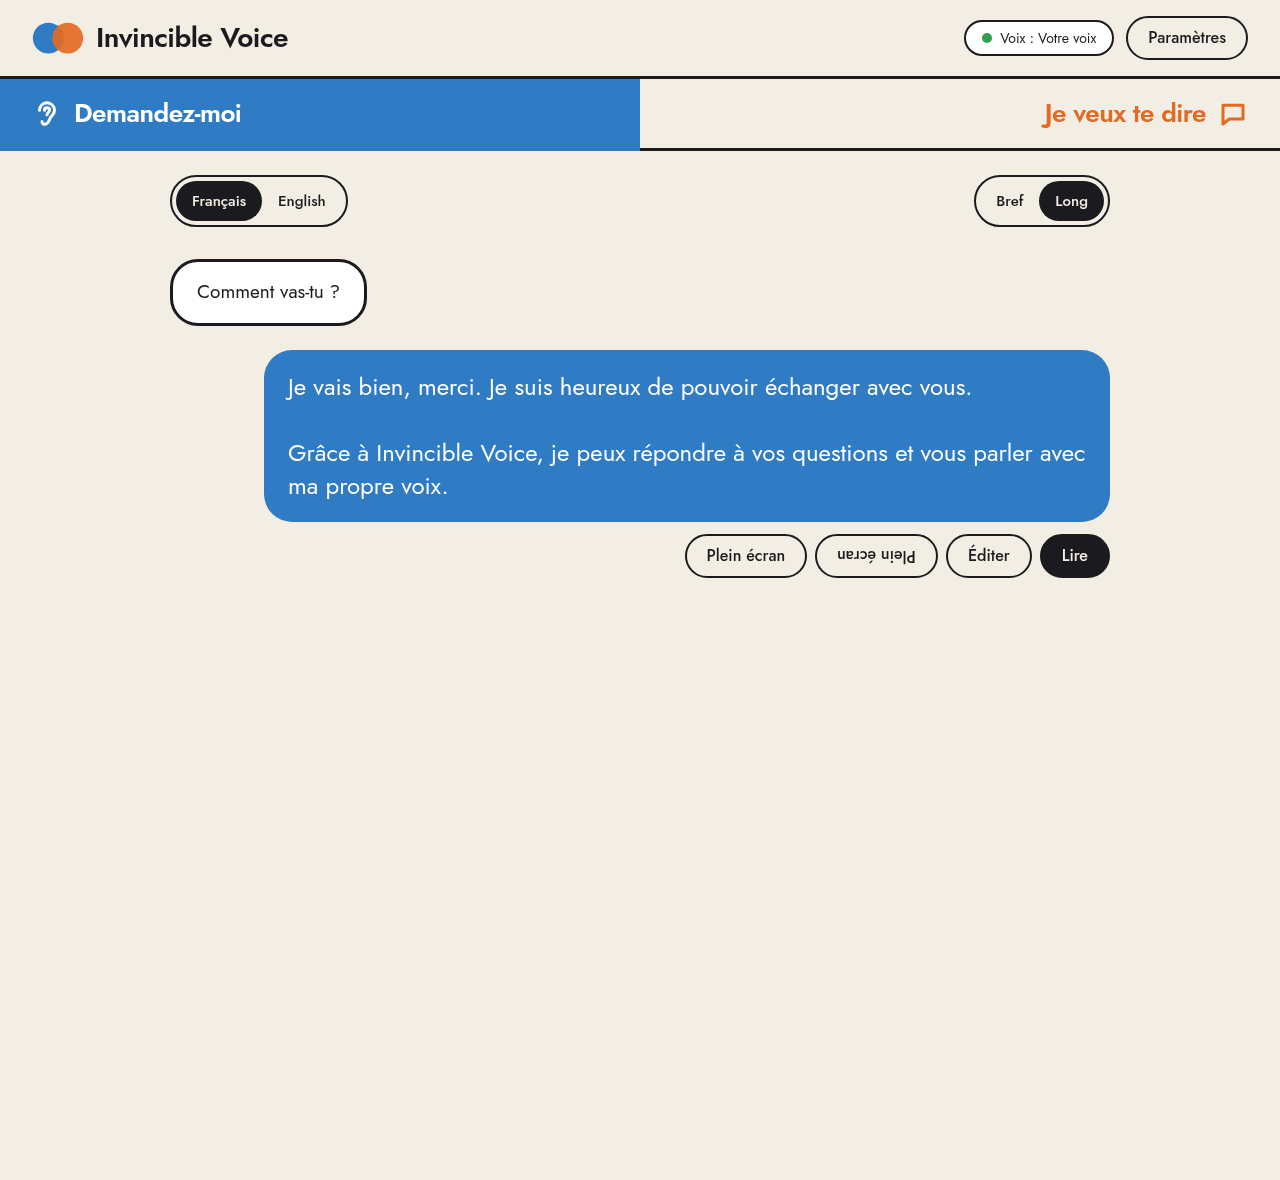
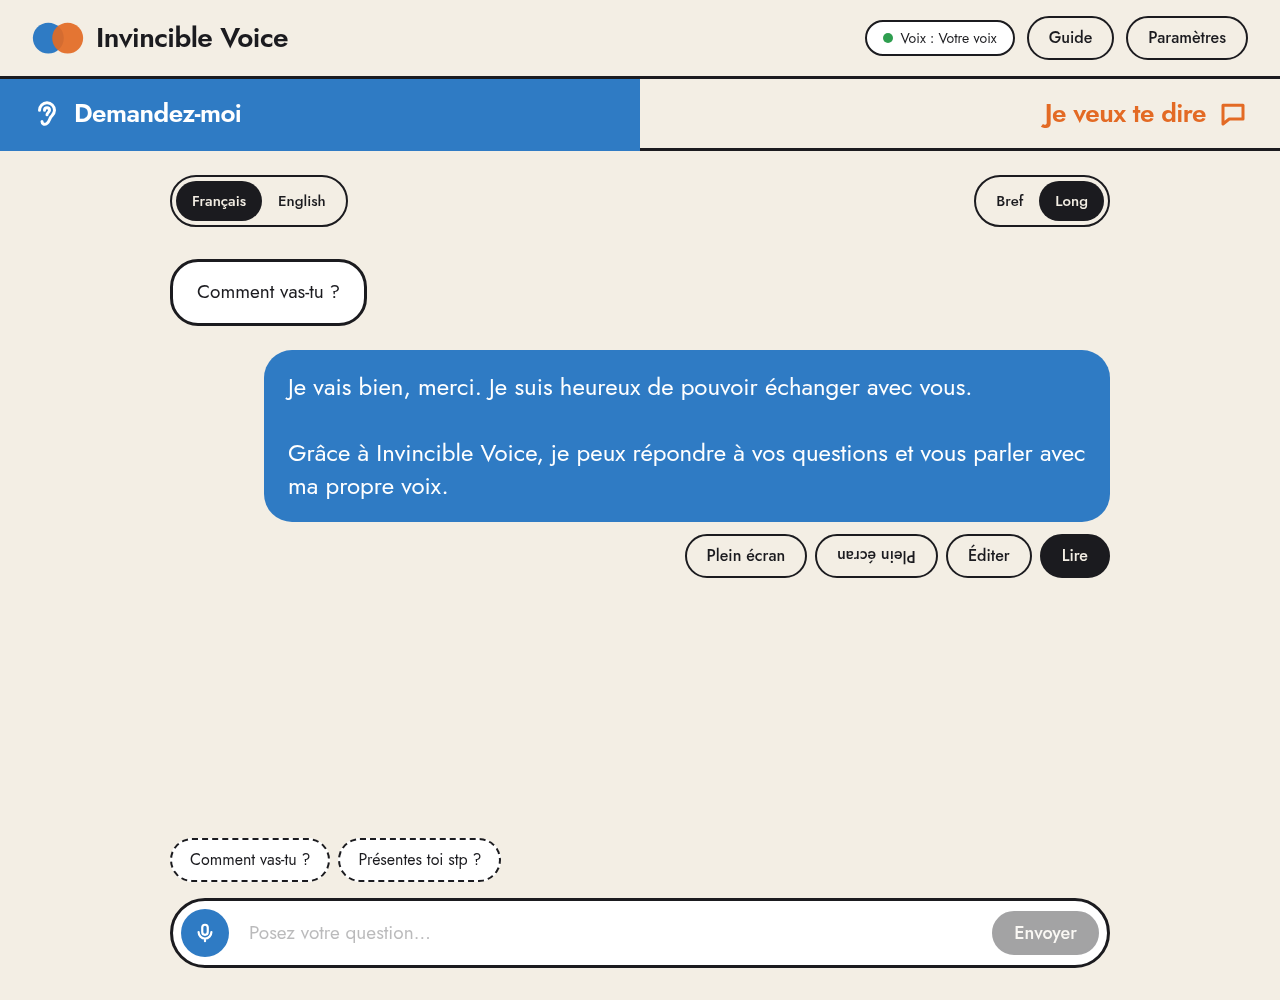
Changes

Changed region(s): [[0.0, 0.0, 1.0, 0.589], [0.125, 0.837, 0.875, 0.992]]

diff --git a/src/routeTree.gen.ts b/src/routeTree.gen.ts
@@ -12,6 +12,7 @@ import { Route as rootRouteImport } from './routes/__root'
 import { Route as IndexRouteImport } from './routes/index'
 import { Route as AskRouteImport } from './routes/ask'
 import { Route as DireRouteImport } from './routes/dire'
+import { Route as GuideRouteImport } from './routes/guide'
 import { Route as ParametresRouteImport } from './routes/parametres'
 import { Route as ApiChatRouteImport } from './routes/api/chat'
 import { Route as ApiExpandRouteImport } from './routes/api/expand'
@@ -32,6 +33,11 @@ const AskRoute = AskRouteImport.update({
 const DireRoute = DireRouteImport.update({
   id: '/dire',
   path: '/dire',
+  getParentRoute: () => rootRouteImport,
+} as any)
+const GuideRoute = GuideRouteImport.update({
+  id: '/guide',
+  path: '/guide',
   getParentRoute: () => rootRouteImport,
 } as any)
 const ParametresRoute = ParametresRouteImport.update({
@@ -69,6 +75,7 @@ export interface FileRoutesByFullPath {
   '/': typeof IndexRoute
   '/ask': typeof AskRoute
   '/dire': typeof DireRoute
+  '/guide': typeof GuideRoute
   '/parametres': typeof ParametresRoute
   '/api/chat': typeof ApiChatRoute
   '/api/expand': typeof ApiExpandRoute
@@ -80,6 +87,7 @@ export interface FileRoutesByTo {
   '/': typeof IndexRoute
   '/ask': typeof AskRoute
   '/dire': typeof DireRoute
+  '/guide': typeof GuideRoute
   '/parametres': typeof ParametresRoute
   '/api/chat': typeof ApiChatRoute
   '/api/expand': typeof ApiExpandRoute
@@ -92,6 +100,7 @@ export interface FileRoutesById {
   '/': typeof IndexRoute
   '/ask': typeof AskRoute
   '/dire': typeof DireRoute
+  '/guide': typeof GuideRoute
   '/parametres': typeof ParametresRoute
   '/api/chat': typeof ApiChatRoute
   '/api/expand': typeof ApiExpandRoute
@@ -105,6 +114,7 @@ export interface FileRouteTypes {
     | '/'
     | '/ask'
     | '/dire'
+    | '/guide'
     | '/parametres'
     | '/api/chat'
     | '/api/expand'
@@ -116,6 +126,7 @@ export interface FileRouteTypes {
     | '/'
     | '/ask'
     | '/dire'
+    | '/guide'
     | '/parametres'
     | '/api/chat'
     | '/api/expand'
@@ -127,6 +138,7 @@ export interface FileRouteTypes {
     | '/'
     | '/ask'
     | '/dire'
+    | '/guide'
     | '/parametres'
     | '/api/chat'
     | '/api/expand'
@@ -139,6 +151,7 @@ export interface RootRouteChildren {
   IndexRoute: typeof IndexRoute
   AskRoute: typeof AskRoute
   DireRoute: typeof DireRoute
+  GuideRoute: typeof GuideRoute
   ParametresRoute: typeof ParametresRoute
   ApiChatRoute: typeof ApiChatRoute
   ApiExpandRoute: typeof ApiExpandRoute
@@ -168,6 +181,13 @@ declare module '@tanstack/react-router' {
       path: '/dire'
       fullPath: '/dire'
       preLoaderRoute: typeof DireRouteImport
+      parentRoute: typeof rootRouteImport
+    }
+    '/guide': {
+      id: '/guide'
+      path: '/guide'
+      fullPath: '/guide'
+      preLoaderRoute: typeof GuideRouteImport
       parentRoute: typeof rootRouteImport
     }
     '/parametres': {
@@ -219,6 +239,7 @@ const rootRouteChildren: RootRouteChildren = {
   IndexRoute: IndexRoute,
   AskRoute: AskRoute,
   DireRoute: DireRoute,
+  GuideRoute: GuideRoute,
   ParametresRoute: ParametresRoute,
   ApiChatRoute: ApiChatRoute,
   ApiExpandRoute: ApiExpandRoute,
